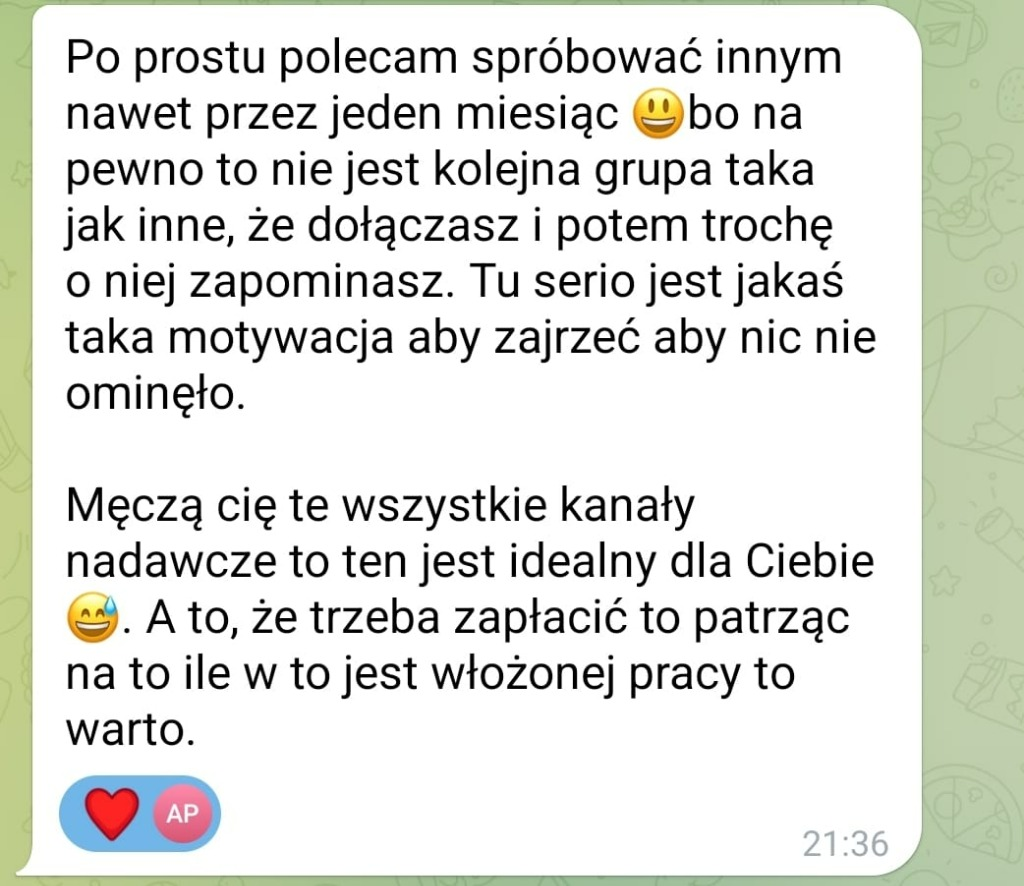
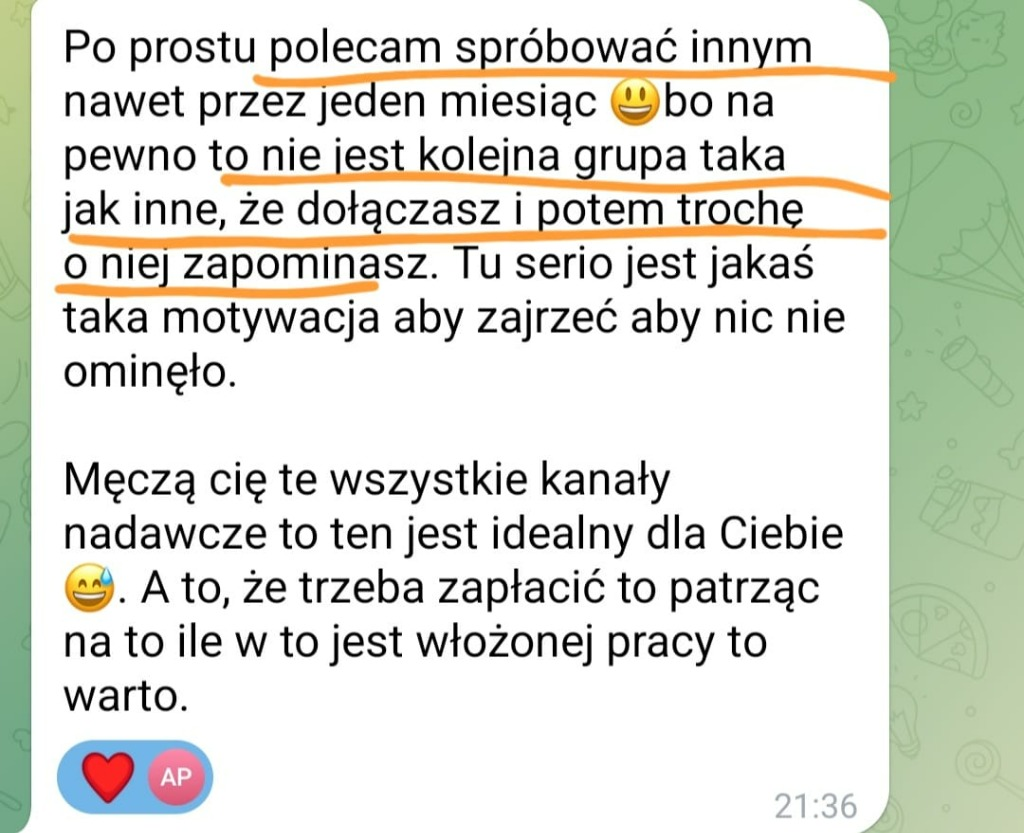
Testimonials: dodano wykadrowana opinie Gosi z Instagrama oraz screen z podkresleniami

diff --git a/components/sections/Testimonials.tsx b/components/sections/Testimonials.tsx
@@ -97,8 +97,8 @@ const Testimonials = () => {
     {
       type: "image",
       content: {
-        src: "/testimonials/t_lepiej_niz_insta.jpg",
-        alt: "Opinia członka Klubu: Z wiadomościami działa to dużo lepiej niż posty na insta",
+        src: "/testimonials/t_gosia_clean.jpg",
+        alt: "Opinia członka Klubu (Gosia): Super alternatywa do Instagrama, konkretne wybrane treści",
       },
     },
     {
